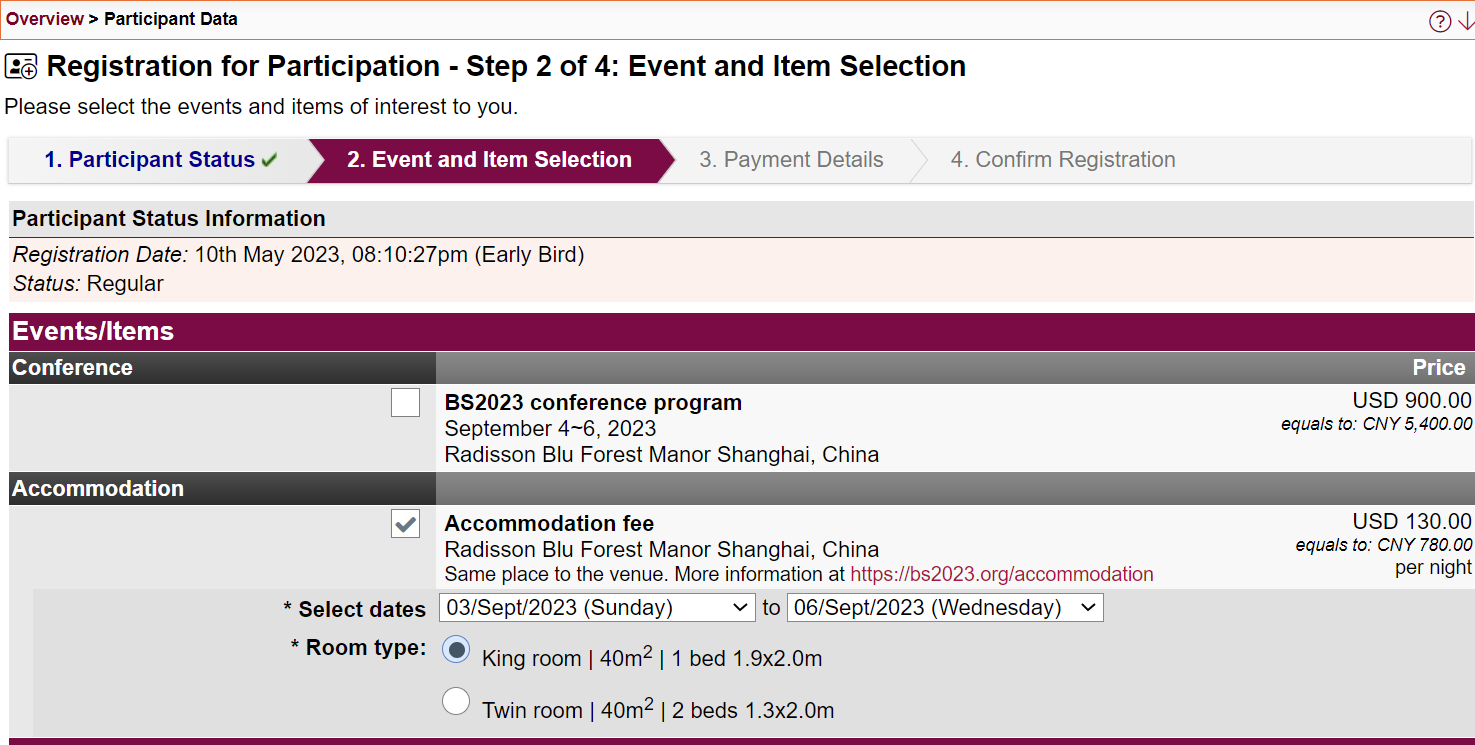
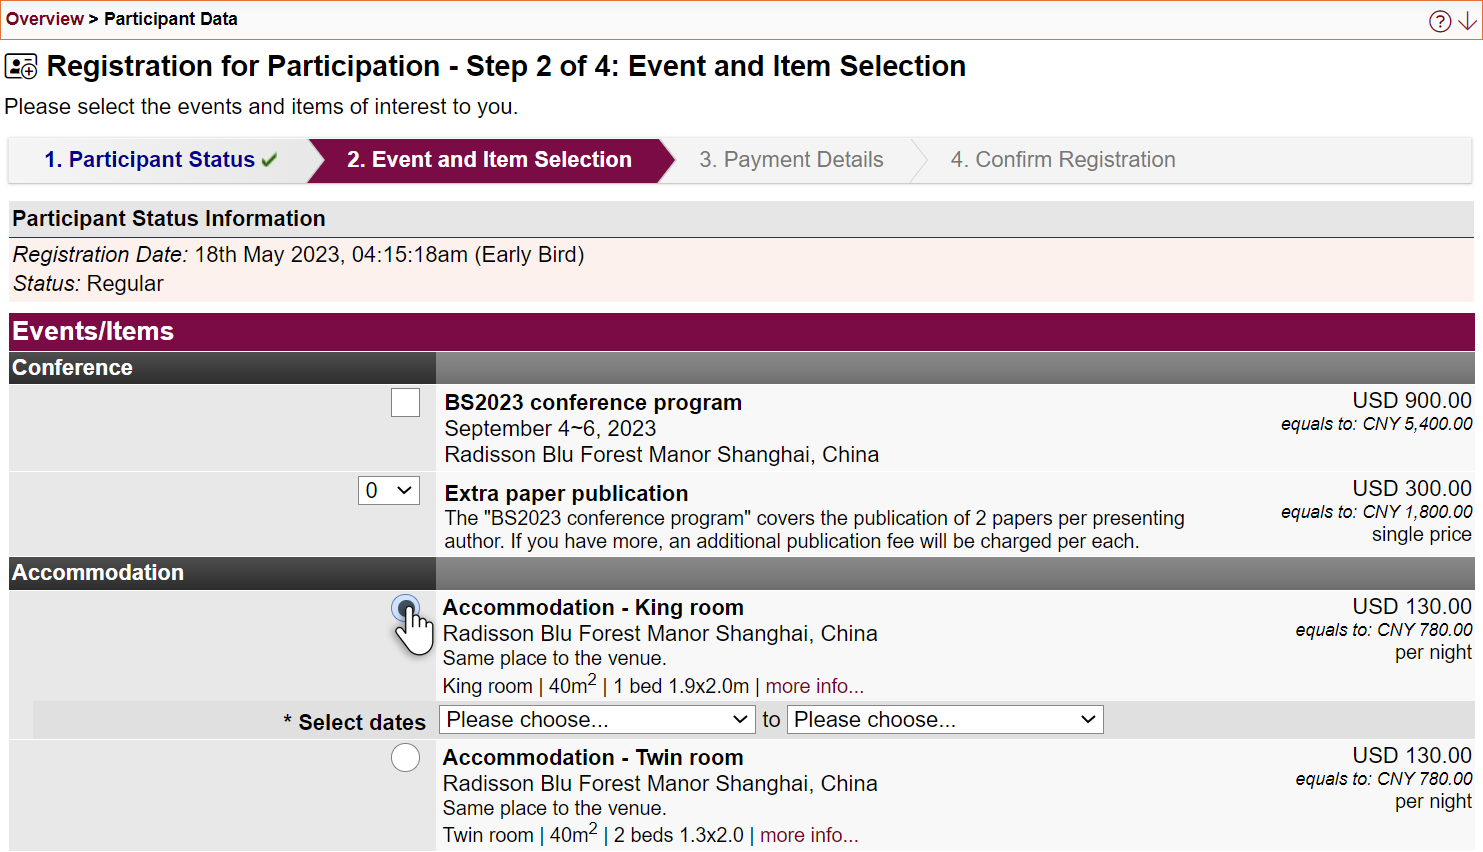
↑ accommodation fee help

diff --git a/app/templates/guide_accommodation.html b/app/templates/guide_accommodation.html
@@ -6,7 +6,7 @@
     <div class="container">
         <div class="row">
             <div class="col-md-8 order-2 order-md-1 align-self-center p-static">
-                <h1 class="text-dark">Pay <strong>accommodation fee</strong></h1>
+                <h1 class="text-dark">Pay accommodation fee</h1>
             </div>
             <div class="col-md-4 order-1 order-md-2 align-self-center">
                 <ul class="breadcrumb d-block text-md-end">
@@ -65,10 +65,18 @@
 
             <p>You may pay the accommodation fee in two ways:</p>
 
-            <p><strong style="color:black;">OPTION-1</strong> Tick the accommodation fee in <strong>ConfTool</strong> (<a href="https://www.conftool.pro/bs2023/" garget="_blank">www.conftool.pro/bs2023</a>) during your registration, then complete the payment along with the registration fee. If you have already paid, please allow us 7 days to update your status.</p>
+            <p><strong style="color:black;">OPTION-1</strong> Tick the accommodation fee in <strong>ConfTool</strong> (<a href="https://www.conftool.pro/bs2023/" garget="_blank">www.conftool.pro/bs2023</a>) during your registration, then complete the payment along with the registration fee. We will update your status in 7 days after a successful payment.</p>
 
-            <img width="100%" src="{{ url_for('static', filename='img/guide/accommodation-1.png') }}" alt="Step 1">
-            <hr style="margin:30px;">
+            <img width="100%" src="{{ url_for('static', filename='img/guide/accommodation-1.png') }}" alt="Booking during registration" style="margin-bottom: 20px;">
+
+            <p>If you've registered, click "Edit Your Participant Registration Details" on your ConfTool landing page to append a booking record. The payment record will update accordingly. Once confirmed, the record is not changeable. Contact us if you need cancellation.</p>
+
+            <img width="100%" src="{{ url_for('static', filename='img/guide/accommodation-2.png') }}" alt="Edit Your Participant Registration Details" style="margin-bottom: 20px;">
+
+            <img width="100%" src="{{ url_for('static', filename='img/guide/accommodation-3.png') }}" alt="Append a booking record">
+
+
+            <hr style="margin:50px;">
 
             <p><strong style="color:black;">OPTION-2</strong> Transfer the total amount via bank/PayPal/AliPay</a>. You will receive reservation proof in 7 days after a successful transfer. You can also check your booking status by the retrieving form.</p>
 

diff --git a/app/templates/registration.html b/app/templates/registration.html
@@ -82,7 +82,7 @@
                         </div>
                     </div>
                     <div class="card-reg-note">
-                        * Companion refers to someone who is accompanying another person during BS2023, who may attend opening and closing ceremony, all dining and catering.</span>
+                        * Companion refers to someone accompanying another person during BS2023, who has the access to the opening and closing ceremony, all dining and catering.</span>
                     </div>
                 </div>
             </div>
@@ -180,8 +180,7 @@
 
         <h4>Notice</h4>
         <ul>
-            <li>The registration fee covers the publication of 2 research papers. If you have more,  an additional $300 will be charged per each.</li>
-            <li>All tiers of registration cover the publication of 2 papers per presenting author. If you have more, an additional $300 (¥1800) will be charged per each as the publication fee.
+            <li>All tiers of registration cover the publication of 2 papers per presenting author. If you have more, an additional $300 (¥1800) will be charged per each as the publication fee (select "Extra paper publication" during registration).
             <li>The conference program comes in a bundle, and We do not have a registration type for certain conference sessions. Contact <a href="mailto:secretariat@bs2023.org">secretariat@bs2023.org</a> if you have specific needs.</li>
             <li>Participants have to register themselves with their ConfTool accounts. Currently, we do not have policies for group/team registration.</li>
             <li>You may download the invoice in ConfTool after registration. 中国大陆发票将在会后统一开具，请在注册过程中备注您的具体开票需求</li>

diff --git a/app/templates/accommodation.html b/app/templates/accommodation.html
@@ -258,7 +258,7 @@
                                 {{ form.guest_lastname(class="form-control text-3 h-auto") }}
                                 {% for error in form.guest_lastname.errors %}
                                 <small style="color: #dc3545">{{ error }}</small>
-                                {% endfor %}
+                                {% endfor %} 
                             </div>
                         </div>
 
@@ -274,7 +274,7 @@
                         <div class="row">
                             <div class="form-group col">
                                 <label class="form-label mb-1 text-2">Booking notes</label>
-                                {{ form.requirement(type="text", maxlength="500", class="form-control text-3 h-auto", rows="2", placeholder="Please list any special requests (e.g., early check-in, room location, etc.). Requests are not guaranteed and are based on availability at check-in") }}
+                                {{ form.requirement(type="text", maxlength="500", class="form-control text-3 h-auto", rows="3", placeholder="Please list any special requests (e.g., early check-in, room location, etc.). Requests are not guaranteed and are based on availability at check-in. 或者在此列出您的增值税发票开具需求") }}
                                 {% for error in form.requirement.errors %}
                                 <small style="color: #dc3545">{{ error }}</small>
                                 {% endfor %}
